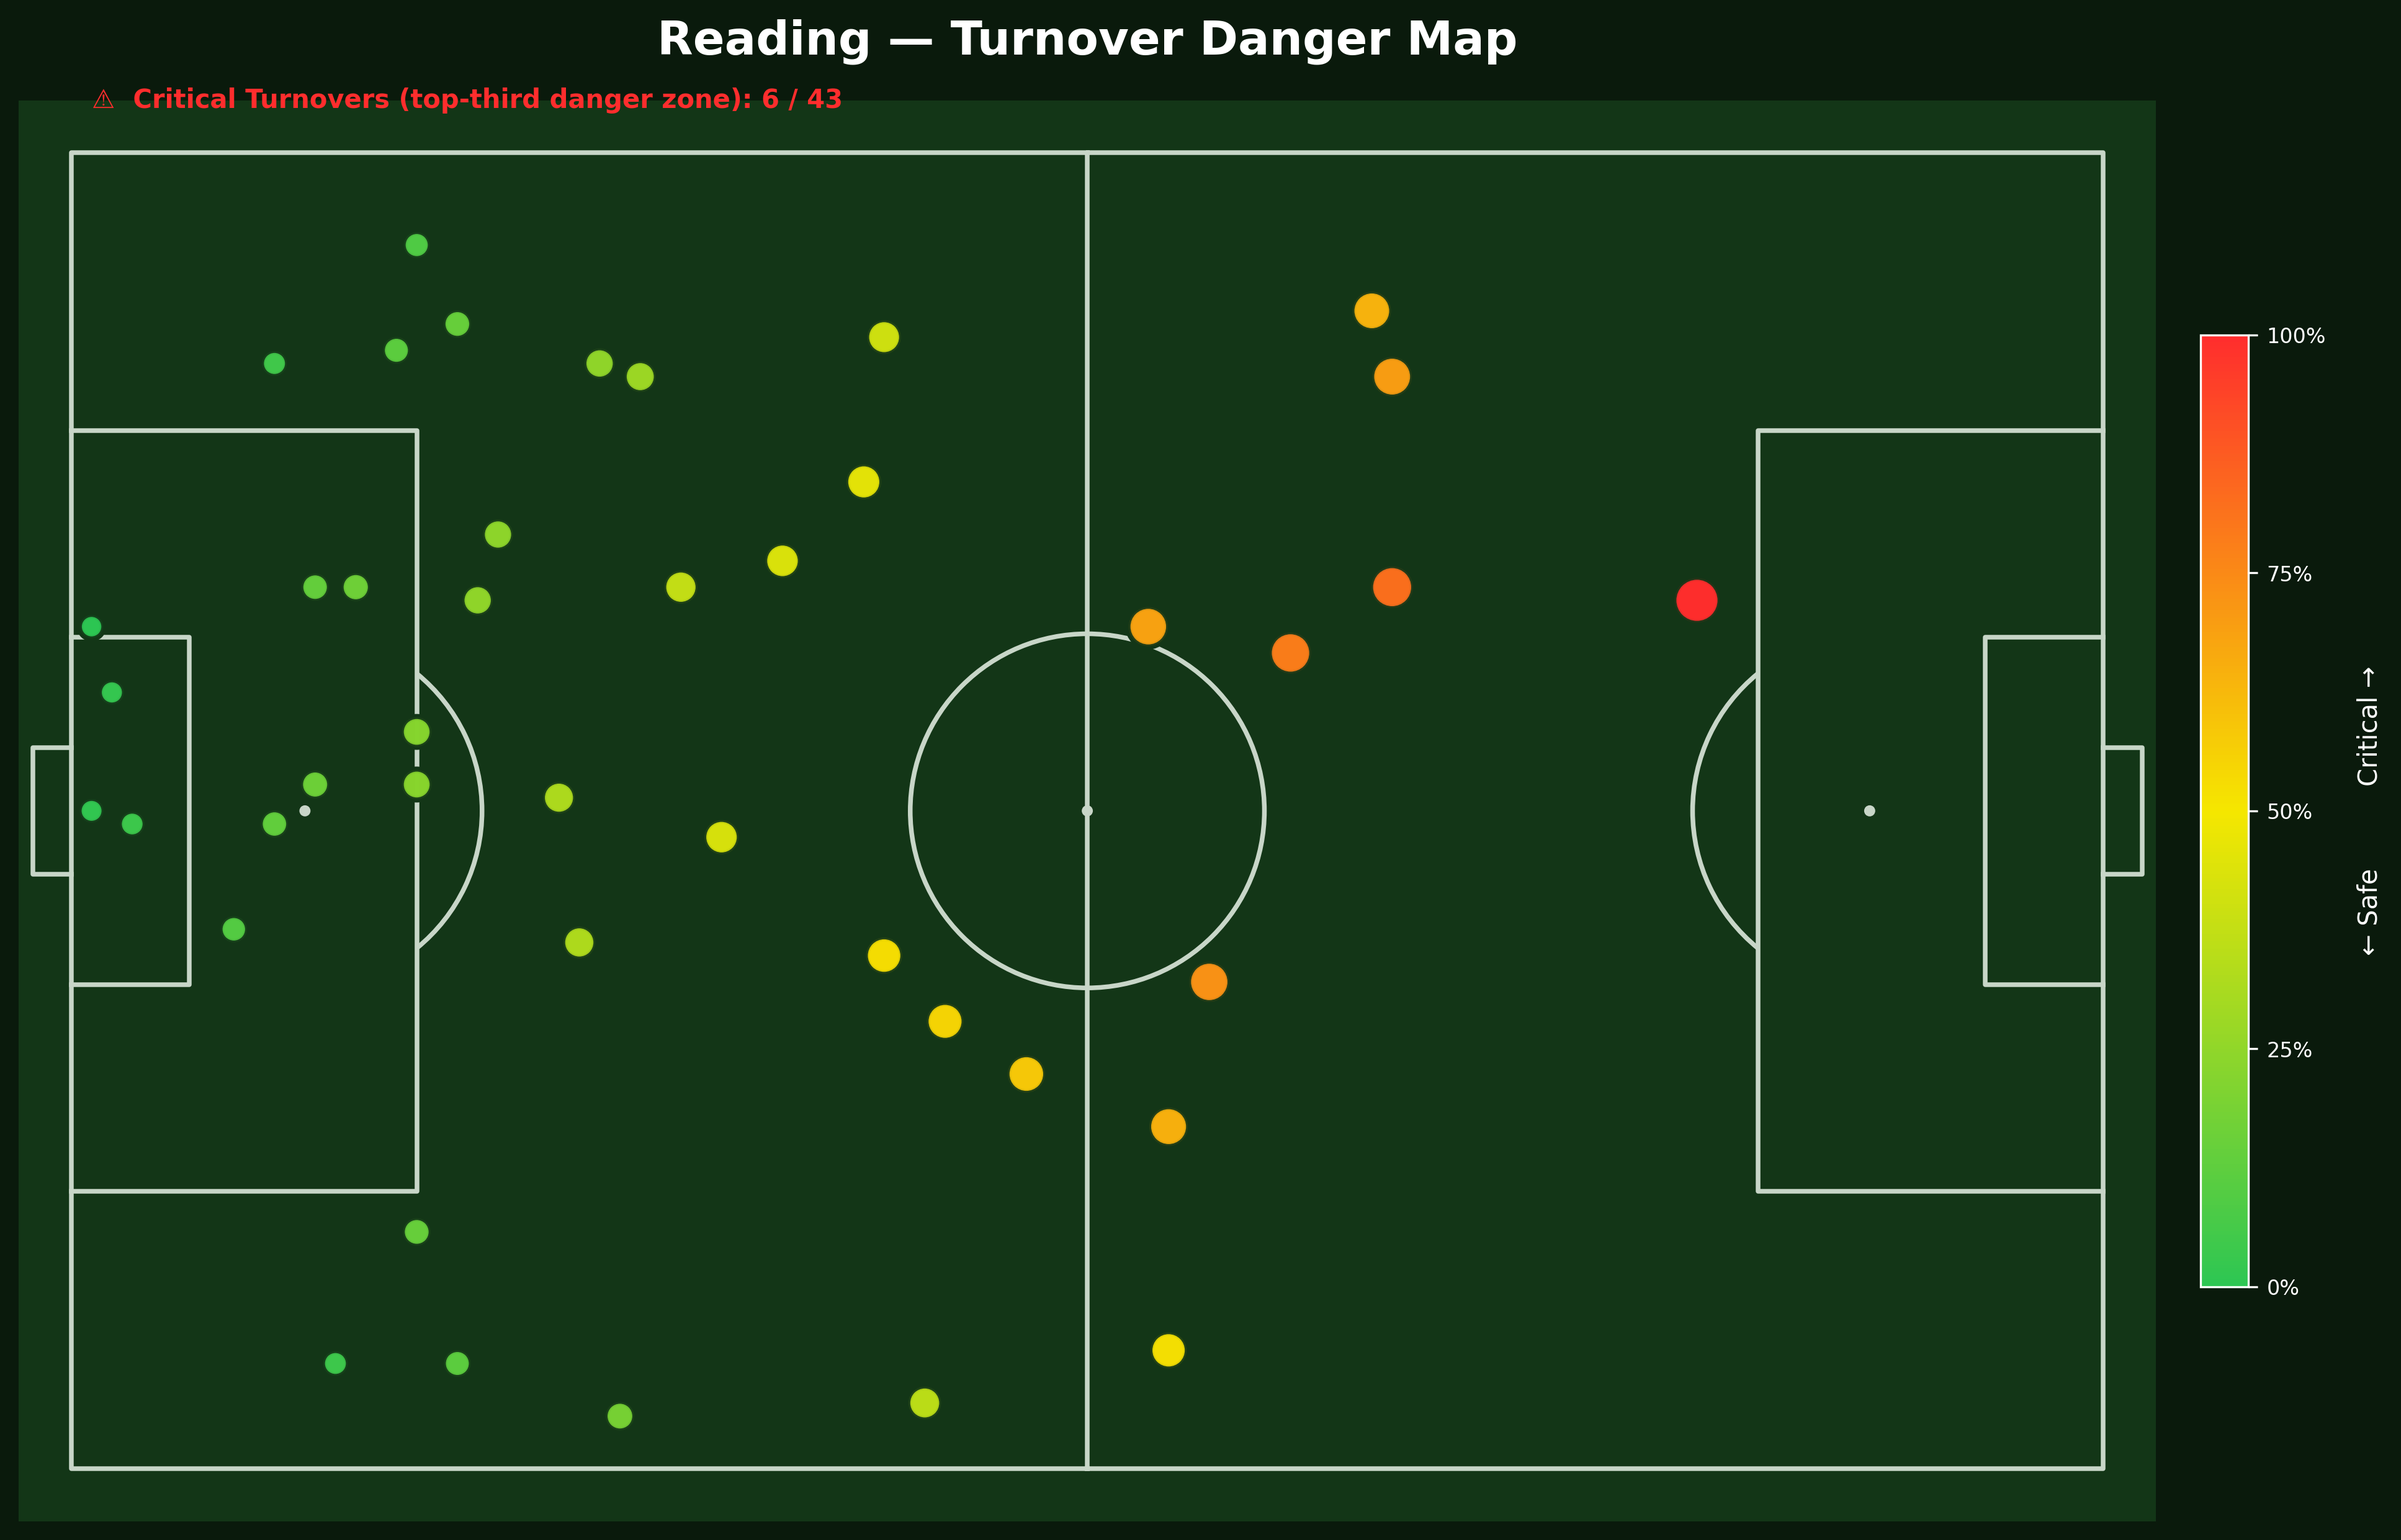
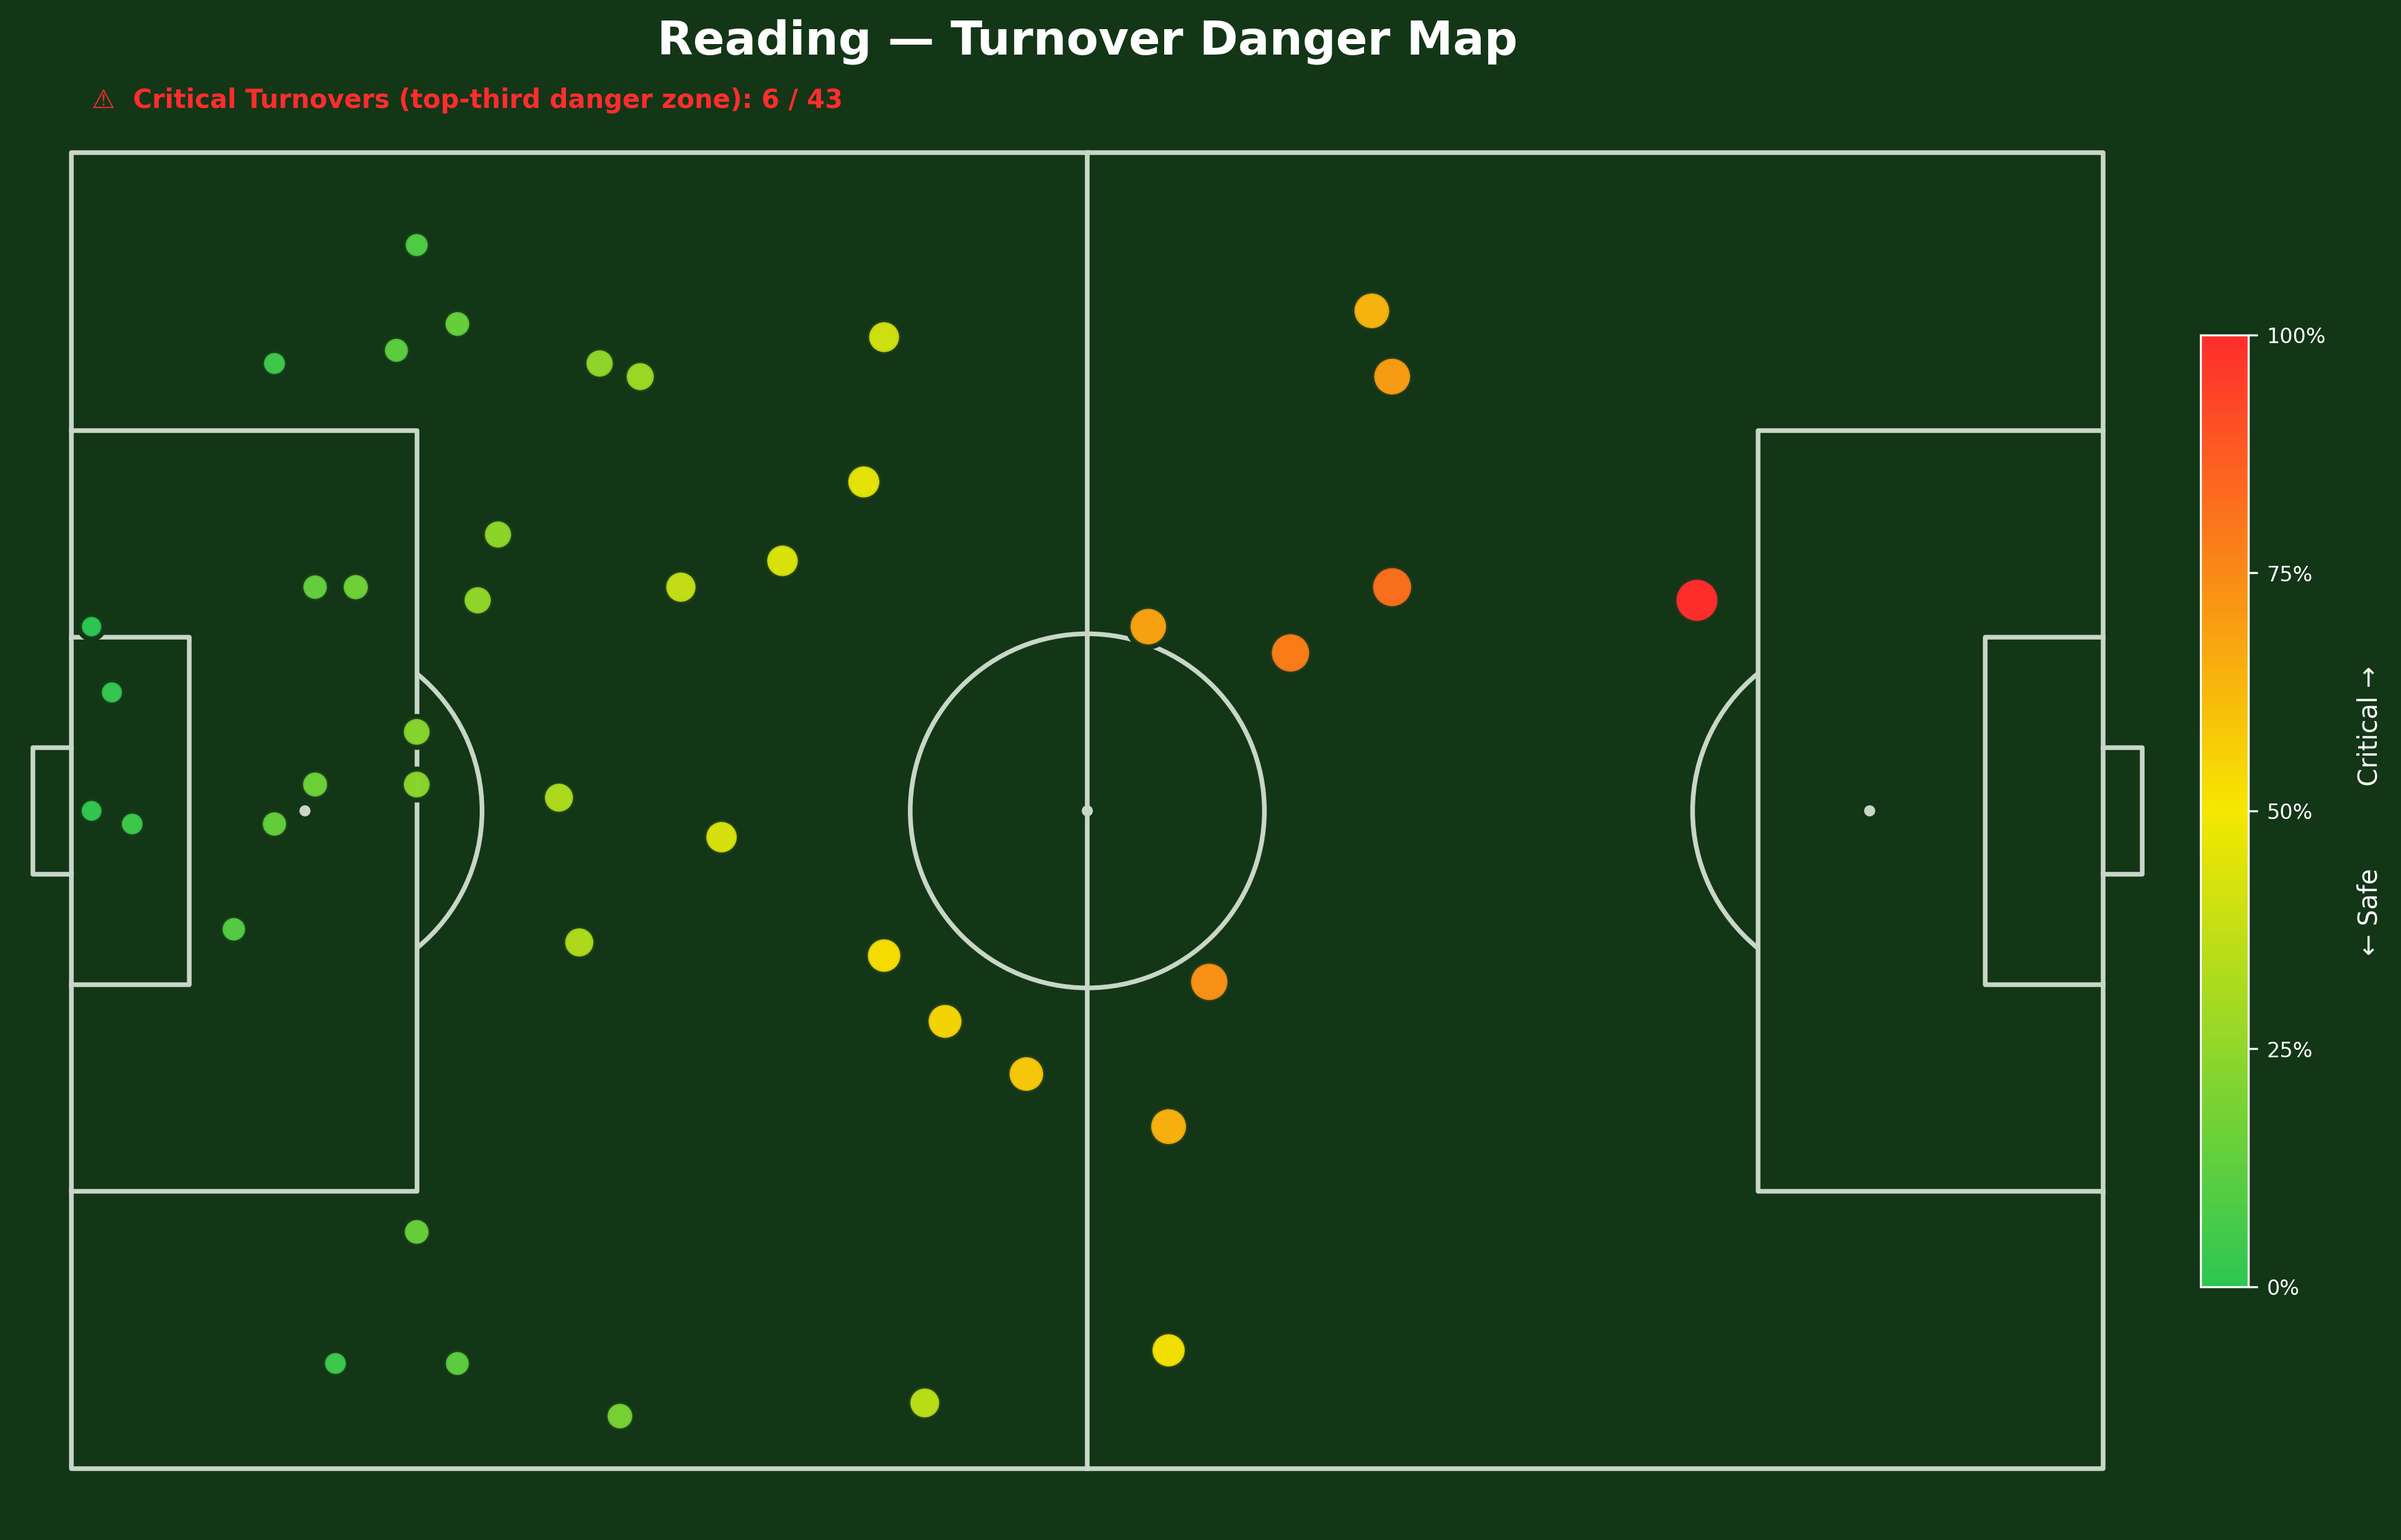
Updateing reading_turnovers_danger.png

Changed region(s): [[0.0, 0.0, 1.0, 1.0]]

diff --git a/analysis.py b/analysis.py
@@ -651,7 +651,7 @@ ax.set_title(
 
 os.makedirs("assets", exist_ok=True)
 plt.savefig("assets/reading_turnovers_danger.png", dpi=300,
-            bbox_inches="tight", facecolor="#0a1a0c")
+            bbox_inches="tight", facecolor="#133617")
 plt.show()
 
 print(f"Turnover danger map saved. Critical: {critical_count}/{total_count}")
